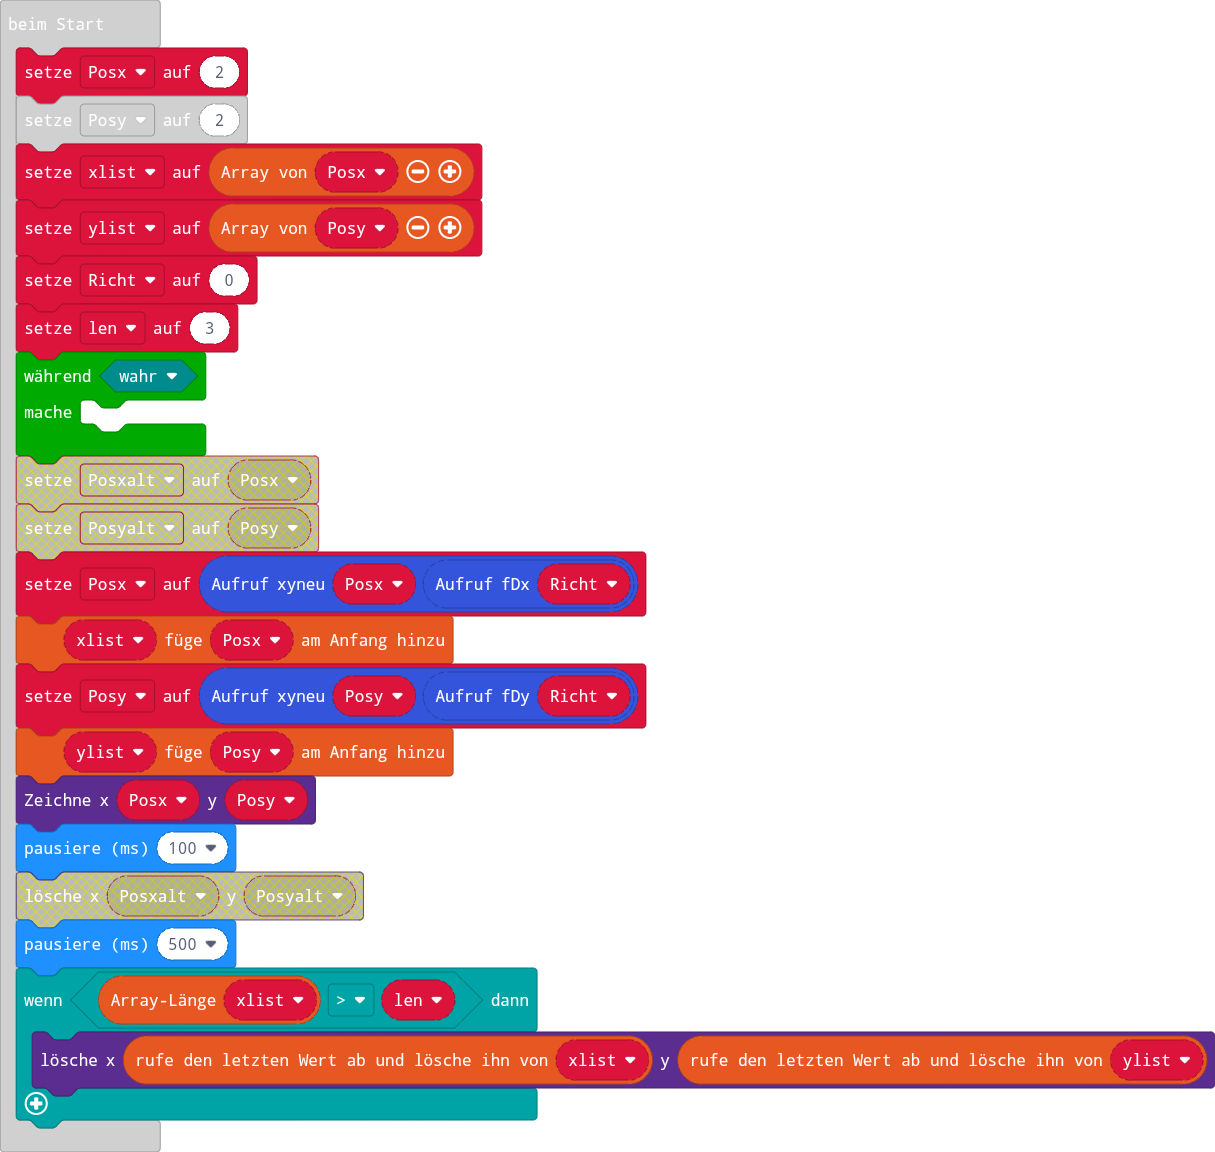
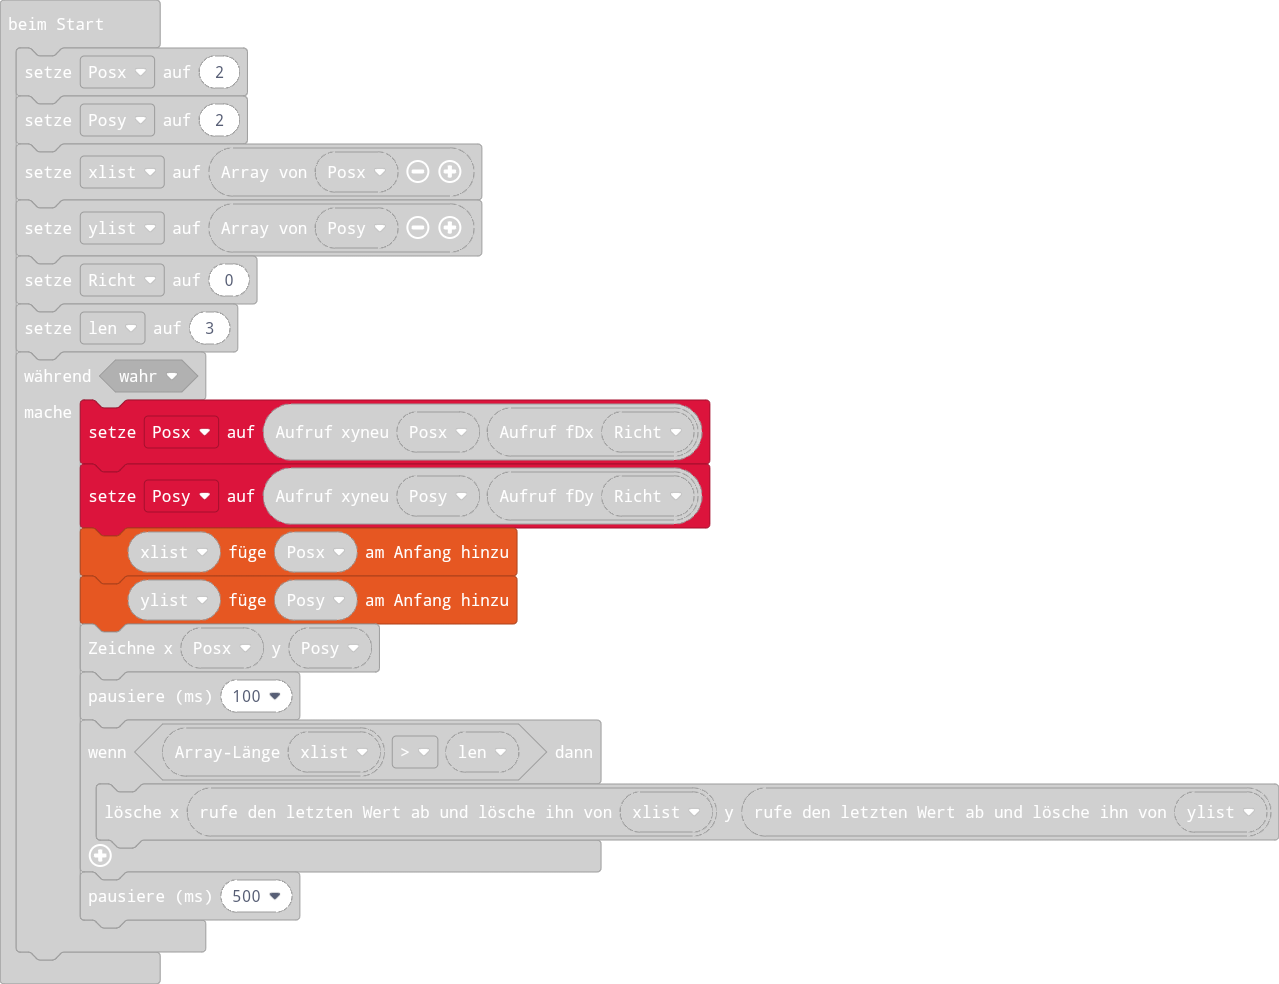
Aktualisiere main.blocks, main.ts

diff --git a/main.ts b/main.ts
@@ -50,8 +50,8 @@ function xyneu (xyalt: number, Dxy: number) {
     }
     return Erg
 }
-let Erg: number = []
-let Richt: number = []
+let Erg = 0
+let Richt = 0
 let Posx = 2
 let Posy = 2
 let xlist = [Posx]
@@ -60,8 +60,8 @@ Richt = 0
 let len = 3
 while (true) {
     Posx = xyneu(Posx, fDx(Richt))
-    xlist.unshift(Posx)
     Posy = xyneu(Posy, fDy(Richt))
+    xlist.unshift(Posx)
     ylist.unshift(Posy)
     led.plot(Posx, Posy)
     basic.pause(100)
